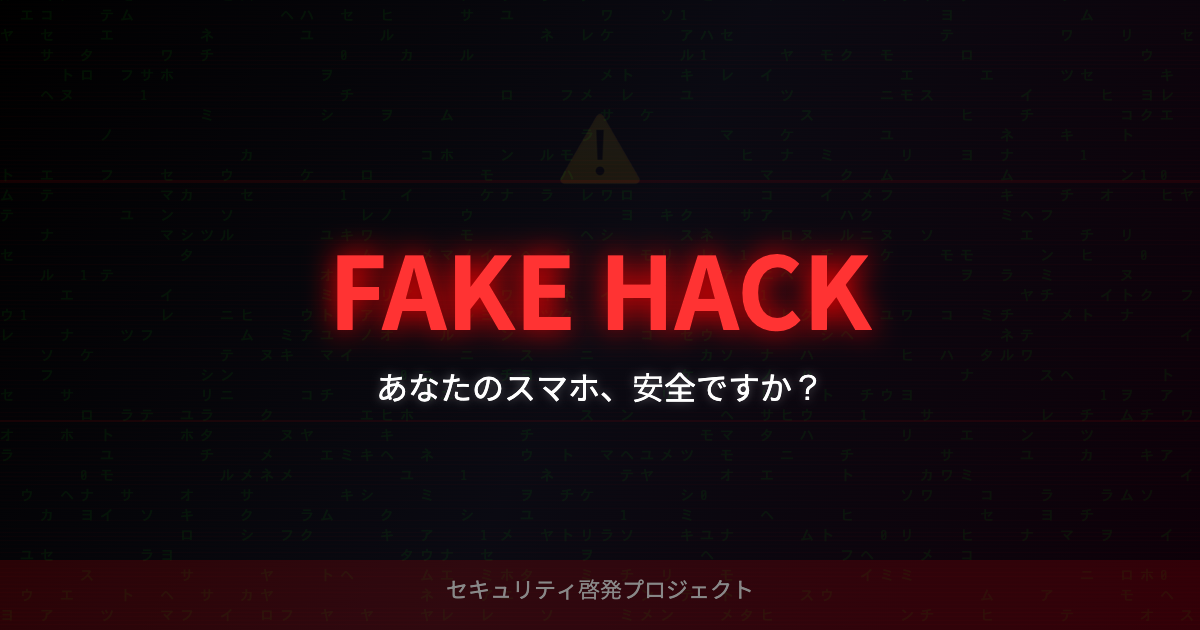
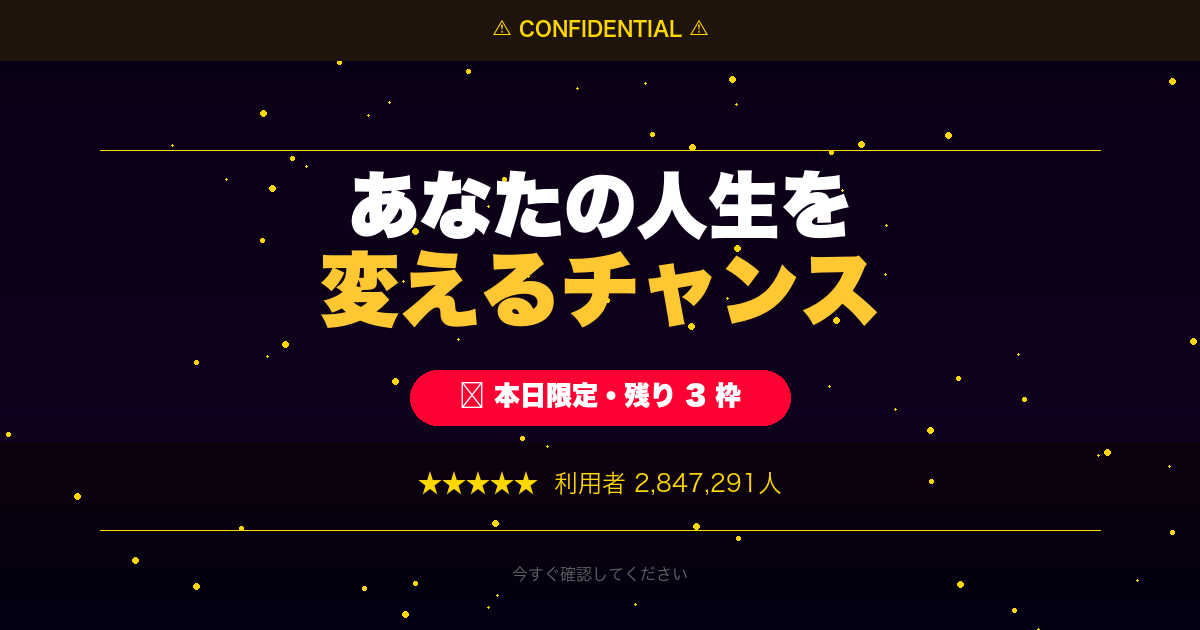
ネタバレ防止: タイトル・OGP・アイコンを情報商材風に偽装
- タイトル「FAKE HACK」→「あなたの人生を変えるチャンス」
- OGP画像を怪しい情報商材風デザインに差替
- favicon・PWAアイコンを金色マネー風に差替
- manifest.jsonの名前も偽装

diff --git a/src/app/layout.tsx b/src/app/layout.tsx
@@ -3,18 +3,18 @@ import "./globals.css";
 
 export const metadata: Metadata = {
   metadataBase: new URL("https://fakehack-xi.vercel.app"),
-  title: "FAKE HACK",
-  description: "セキュリティ啓発プロジェクト - あなたのスマホ、安全ですか？",
+  title: "【本日限定】あなたの人生を変えるチャンス",
+  description: "⚠ CONFIDENTIAL｜本日限定・残り3枠。今すぐ確認してください。",
   openGraph: {
-    title: "FAKE HACK",
-    description: "セキュリティ啓発プロジェクト - あなたのスマホ、安全ですか？",
+    title: "【本日限定】あなたの人生を変えるチャンス",
+    description: "⚠ CONFIDENTIAL｜本日限定・残り3枠。今すぐ確認してください。",
     images: [{ url: "/ogp.png", width: 1200, height: 630 }],
     type: "website",
   },
   twitter: {
     card: "summary_large_image",
-    title: "FAKE HACK",
-    description: "セキュリティ啓発プロジェクト - あなたのスマホ、安全ですか？",
+    title: "【本日限定】あなたの人生を変えるチャンス",
+    description: "⚠ CONFIDENTIAL｜本日限定・残り3枠。今すぐ確認してください。",
     images: ["/ogp.png"],
   },
   icons: {
